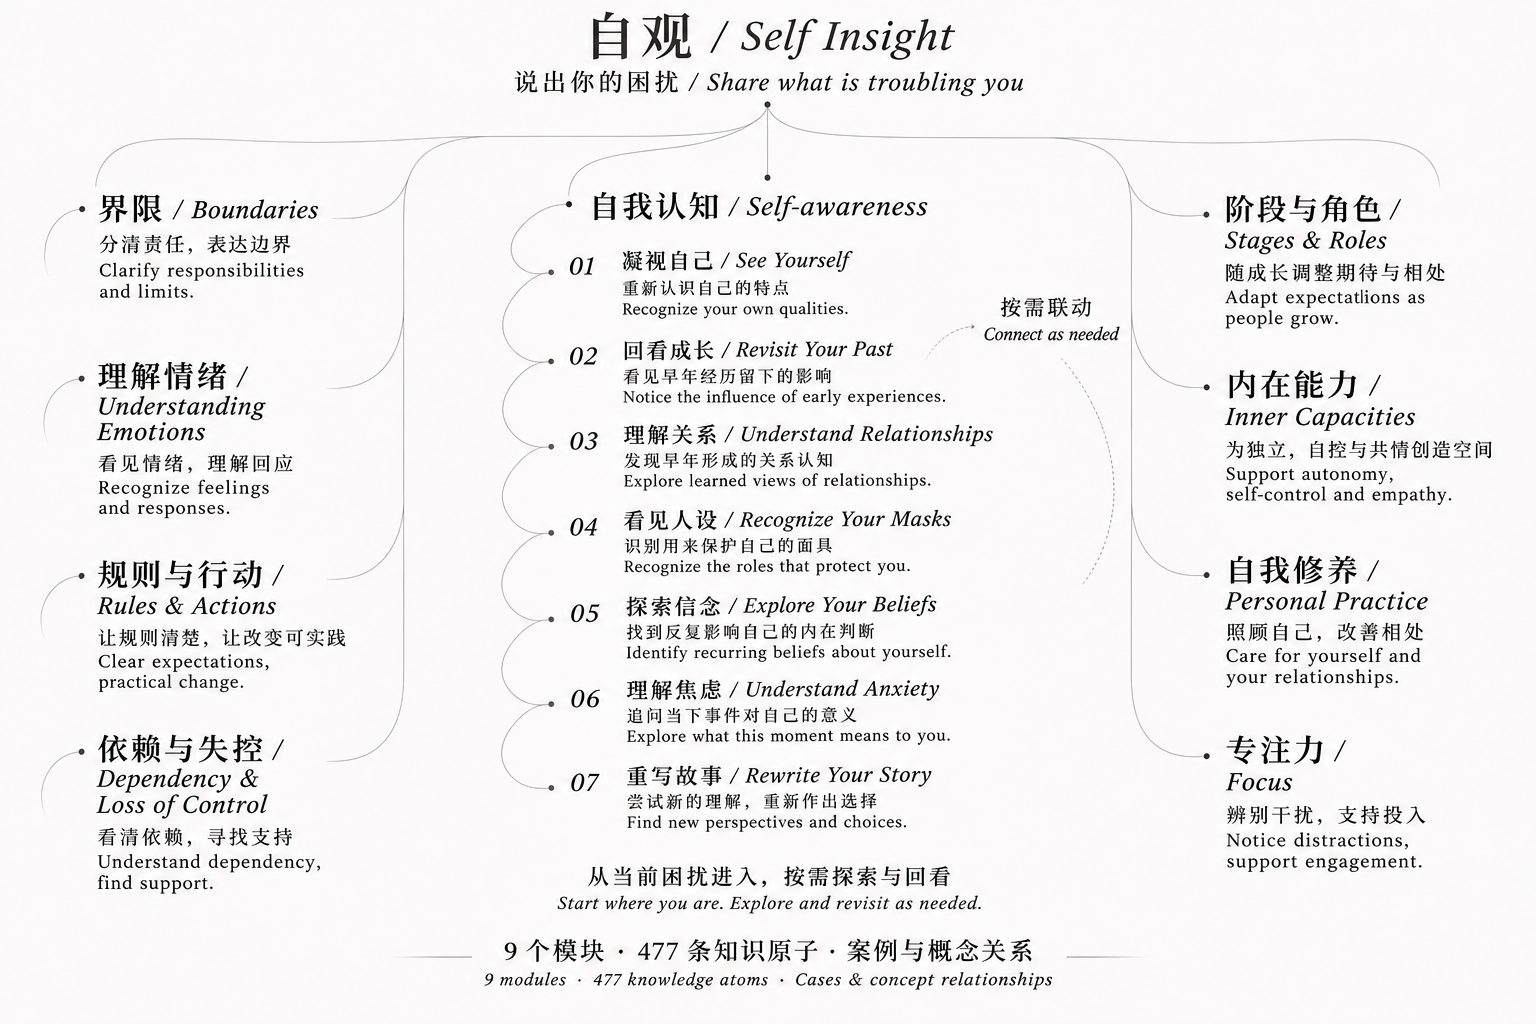
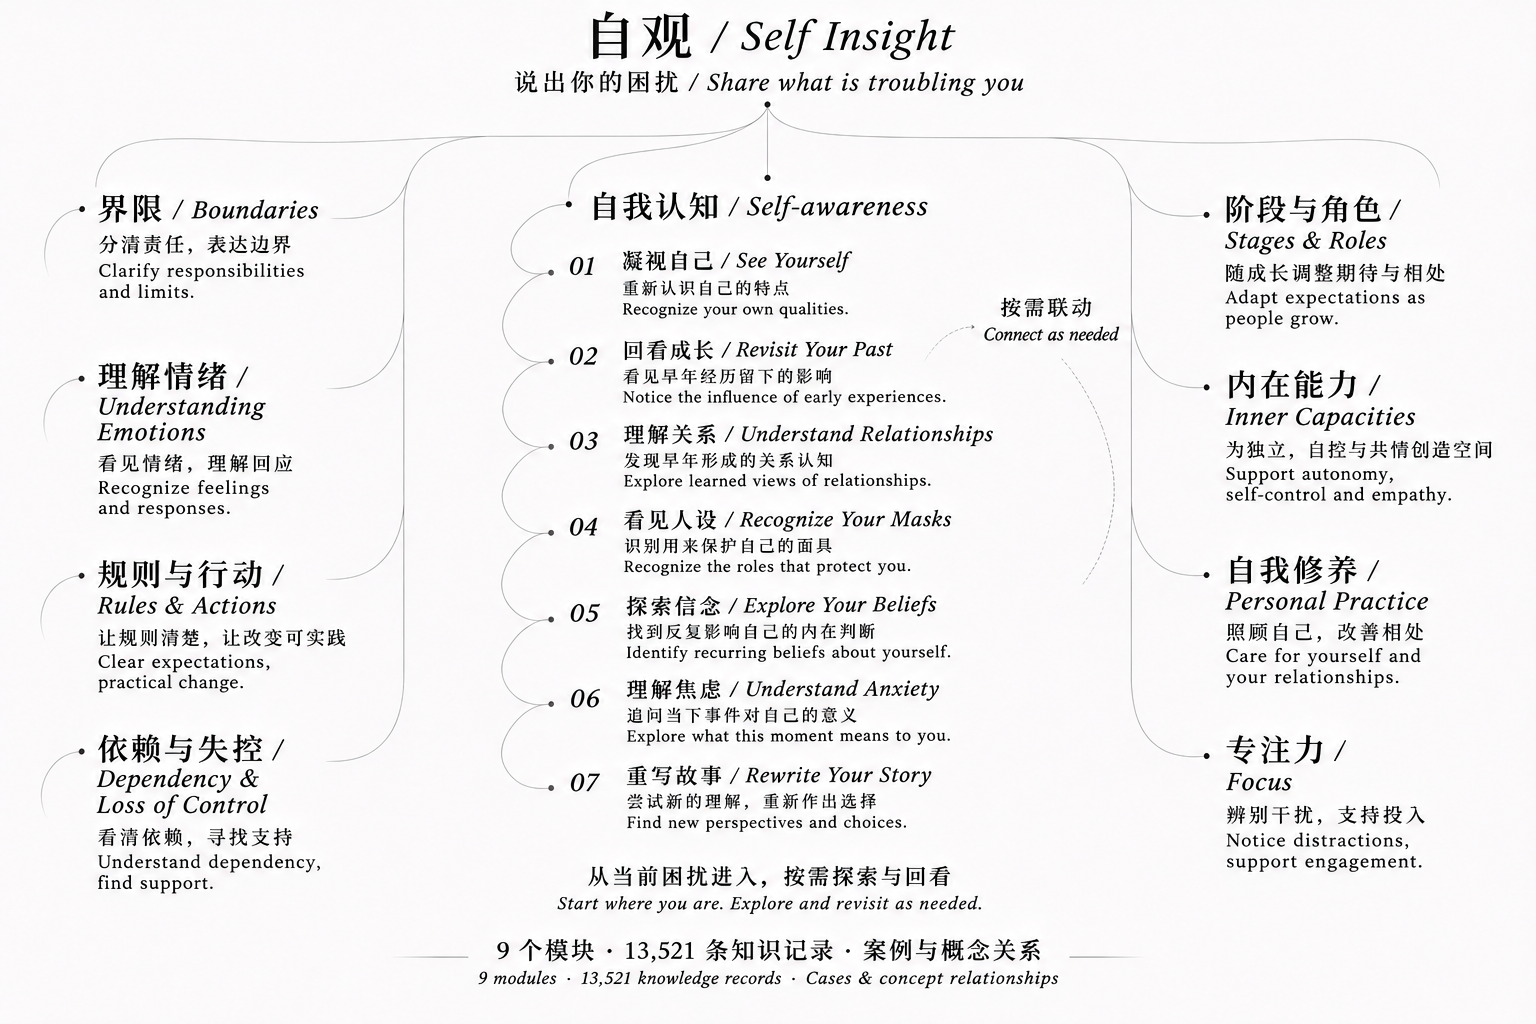
Update bilingual diagram and README to show 13521 knowledge records

diff --git a/PUBLICATION.md b/PUBLICATION.md
@@ -1,8 +1,8 @@
 # Package contents / 包内容
 
-The complete router and nine modules contain 600 runtime files. The original 477 atoms, 54 knowledge and case files, and dialogue methods remain intact. The expanded library adds 13,044 structured records, with conditions, limits, source references and links to the original knowledge. Record counts are not counts of unique concepts.
+The complete router and nine modules contain 600 runtime files and 13,521 searchable knowledge records: 477 original atoms plus 13,044 expanded records. The original 54 knowledge and case files and dialogue methods remain intact. The expanded library includes conditions, limits, source references and links to the original knowledge. Record counts are not counts of unique concepts.
 
-完整主入口与九模块包含 600 个运行文件。原有 477 条原子、54 个知识与案例文件及咨询方法完整保留；补充库包含 13,044 条结构化记录，附适用条件、限制、来源定位及新旧知识关联。记录数量不等于独立概念数量。
+完整主入口与九模块包含 600 个运行文件、13,521 条可检索知识记录，即 477 条原有原子加 13,044 条补充记录。原有 54 个知识与案例文件及咨询方法完整保留；补充库附适用条件、限制、来源定位及新旧知识关联。记录数量不等于独立概念数量。
 
 Publication changes attribution, residual private locations and installation paths, not knowledge or case bodies. Original course transcripts, private notes, identity mappings, credentials, internal audits and evaluation answers are excluded. The approved bilingual diagram is retained.
 

diff --git a/README.en.md b/README.en.md
@@ -4,8 +4,9 @@ A conversational skill for understanding personal difficulties and clarifying re
 
 [中文](README.md)
 
+**9 modules · 13,521 searchable knowledge records · Cases & concept relationships**
 
-![Modules](assets/module-map.png)
+![Self Insight: nine modules, seven-step self-awareness and 13,521 knowledge records](assets/module-map.png?v=20261106-13521)
 
 | Module | Purpose |
 |---|---|
@@ -23,7 +24,7 @@ Display names do not broaden the original scope. Parenting material is not autom
 
 ## Contents and use
 
-One entry point and nine modules, with 600 runtime files. The original 477 atoms, 54 knowledge and case files, and dialogue methods are preserved. The expanded library contains 13,044 structured records extracted and checked against 242 supplied texts. Search covers both layers and follows conditional links between them.
+One entry point and nine modules, with 600 runtime files and 13,521 searchable knowledge records. This total combines the original 477 atoms with 13,044 expanded structured records, extracted and checked against 242 supplied texts. The original 54 knowledge and case files and dialogue methods are preserved. Search covers both layers and follows conditional links between them.
 
 Records include concepts, procedures, cases, applicability conditions and limits. Record counts are not counts of unique concepts. Original transcripts, private notes, identity mappings and internal audit material are neither distributed nor required to use the skill.
 

diff --git a/README.md b/README.md
@@ -4,8 +4,9 @@
 
 [English](README.en.md)
 
+**9 个模块 · 13,521 条可检索知识记录 · 案例与概念关系**
 
-![模块介绍](assets/module-map.png)
+![自观：九模块、七步认知路径与 13,521 条知识记录](assets/module-map.png?v=20261106-13521)
 
 | 模块 | 英文 | 用来做什么 |
 |---|---|---|
@@ -23,7 +24,7 @@
 
 ## 内容与使用
 
-一个主入口、九个子模块，共 600 个运行文件。原有 477 条知识原子、54 个知识／案例文件和咨询方法完整保留；补充库包含 13,044 条结构化记录，来自 242 份材料的逐点提取与核对。默认同时检索两层知识，并沿有适用条件的关系查找补充内容，不把多个知识库孤立使用。
+一个主入口、九个子模块，共 600 个运行文件、13,521 条可检索知识记录。其中，原有 477 条知识原子、54 个知识／案例文件和咨询方法完整保留；补充库包含 13,044 条结构化记录，来自 242 份材料的逐点提取与核对。默认同时检索两层知识，并沿有适用条件的关系查找补充内容，不把多个知识库孤立使用。
 
 记录包括概念、方法步骤、案例、适用条件和限制；条数不是互不重复的概念数。原始课程、私人笔记、身份映射和内部审计资料不随 Skill 分发，也不是运行依赖。
 
